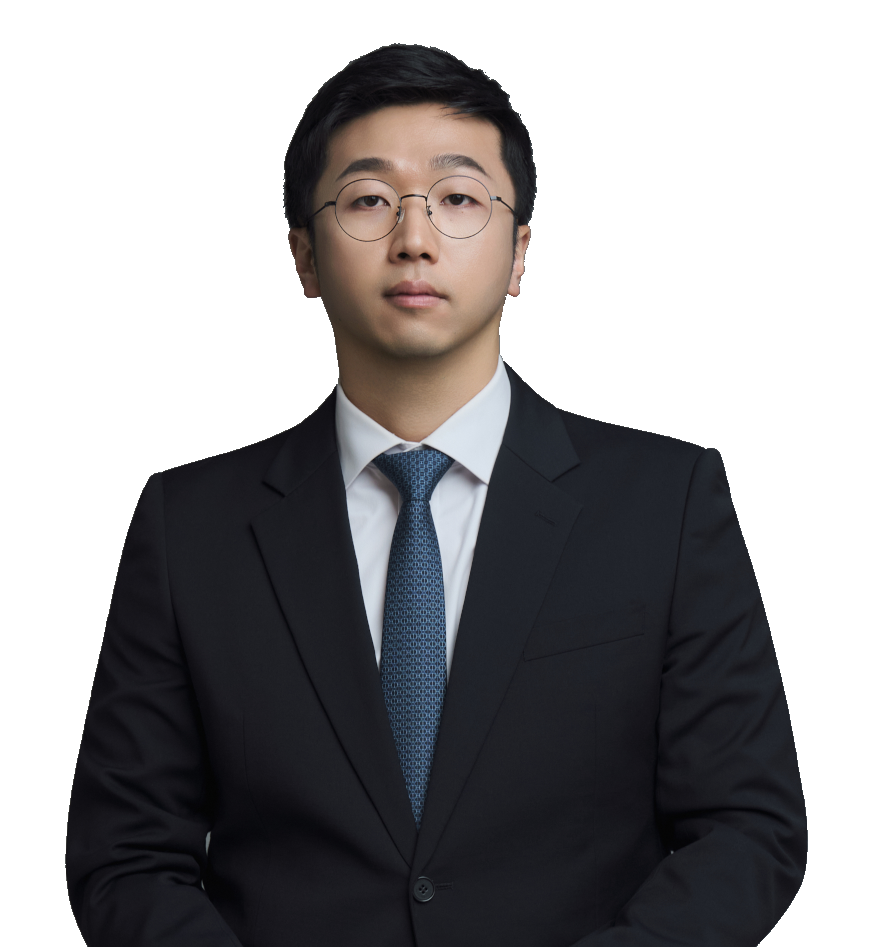
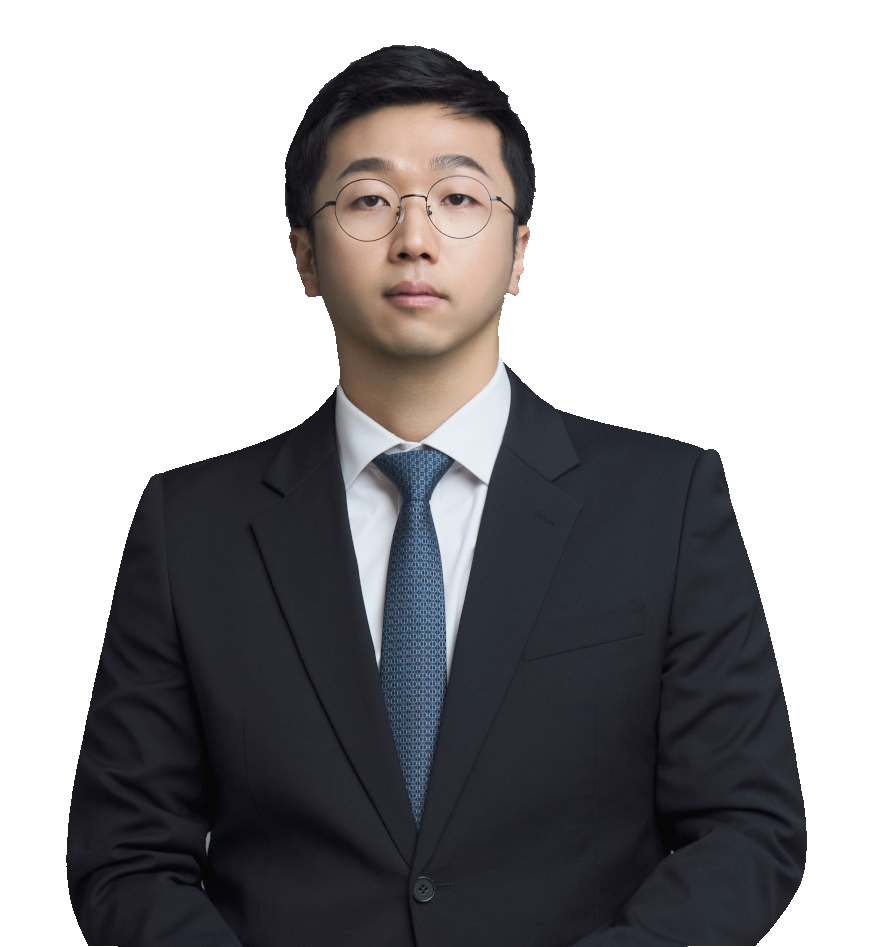
chore: update site metadata and images

diff --git a/src/app/layout.tsx b/src/app/layout.tsx
@@ -29,7 +29,8 @@ export const metadata: Metadata = {
     default: "법률사무소 정천",
     template: "%s",
   },
-  description: "정천 법률사무소 공식 홈페이지입니다.",
+  description:
+    "법률사무소 정천은 대한변호사협회 등록 형사·민사 전문 김찬협 변호사가 직접 상담하는 법률사무소입니다. 형사, 민사, 이혼·가사 등 다양한 법률 분쟁에서 의뢰인의 상황을 정확히 분석하고 최적의 해결 방안을 제시합니다. 모든 사건은 대표 변호사가 직접 검토하며, 충분한 상담과 체계적인 대응으로 의뢰인과 끝까지 함께합니다.",
   alternates: {
     canonical: "/",
   },
@@ -48,7 +49,8 @@ export const metadata: Metadata = {
   },
   openGraph: {
     title: "법률사무소 정천",
-    description: "정천 법률사무소 공식 홈페이지입니다.",
+    description:
+      "법률사무소 정천은 대한변호사협회 등록 형사·민사 전문 김찬협 변호사가 직접 상담하는 법률사무소입니다. 형사, 민사, 이혼·가사 등 다양한 법률 분쟁에서 의뢰인의 상황을 정확히 분석하고 최적의 해결 방안을 제시합니다. 모든 사건은 대표 변호사가 직접 검토하며, 충분한 상담과 체계적인 대응으로 의뢰인과 끝까지 함께합니다.",
     url: "/",
     siteName: "법률사무소 정천",
     locale: "ko_KR",
